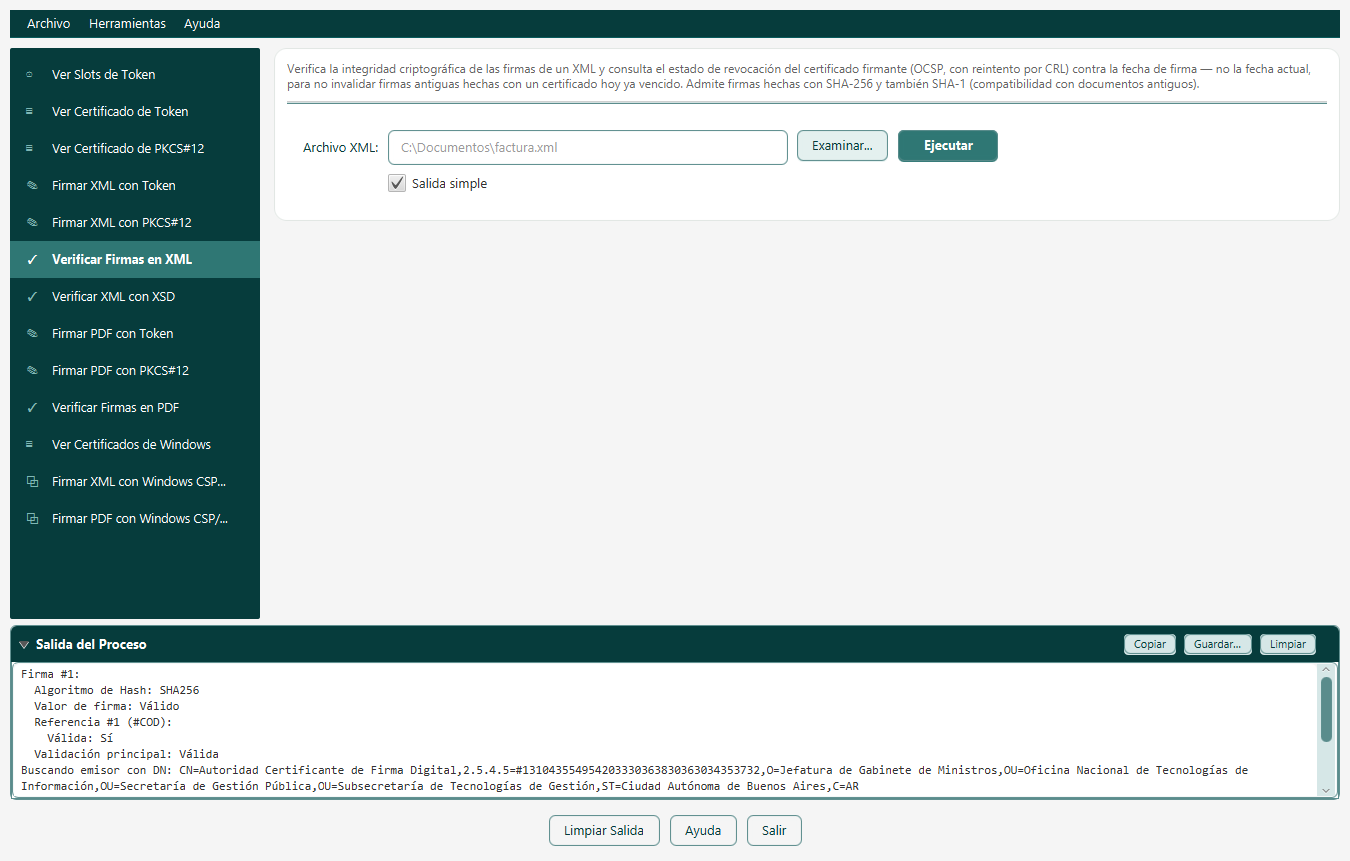
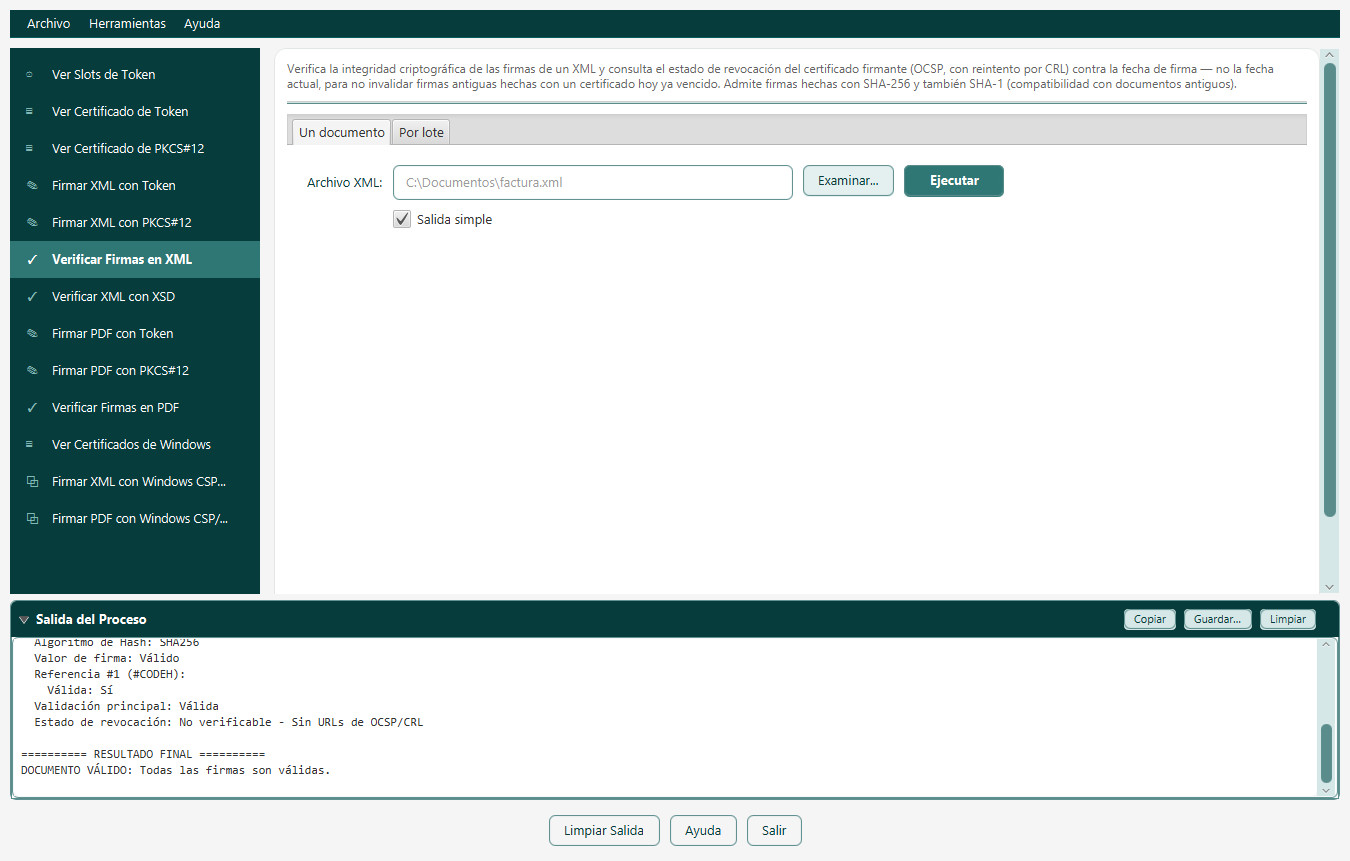
docs(1.6.0): pagina de inicio, guia de usuario y capturas de la interfaz
La pagina de inicio seguia anunciando la 1.5.1 y la guia solo describia el
trabajo por lote con texto, sin enlace en el indice ni imagenes.

- index.html: version 1.6.0 y sus novedades (lotes y actualizacion de
  componentes). Se publica recien cuando la rama llegue a main.
- Guia: fecha, enlace en el indice, aviso en las pantallas con pestanas,
  estados y botones del lote, archivos que genera y problemas frecuentes.
- Capturas tomadas de la aplicacion 1.6.0 con el certificado de prueba. Las
  de firma con token muestran solo el formulario (sin token conectado); las
  de certificado vencido y del almacen de Windows siguen siendo de la 1.5.1.

Changed region(s): [[0.0, 0.0604, 0.9956, 0.9361], [0.2178, 0.8153, 0.3111, 0.8455]]

diff --git a/doc/manual-usuario-sfide-gui.html b/doc/manual-usuario-sfide-gui.html
@@ -246,6 +246,7 @@
             <li><a href="#g11">Ver Certificados de Windows</a></li>
             <li><a href="#g12">Firmar XML con Windows CSP/KSP</a></li>
             <li><a href="#g13">Firmar PDF con Windows CSP/KSP</a></li>
+            <li><a href="#por-lote">Trabajar por lote (carpetas)</a></li>
           </ol>
         </li>
         <li><a href="#s5">Dónde quedan los archivos generados</a></li>
@@ -263,7 +264,7 @@
       <p>Cómo usar la interfaz gráfica de S-FiDE para firmar y verificar documentos XML y PDF, paso a paso, con capturas reales de la propia aplicación. Pensada para quien usa el programa haciendo clic, no para quien integra los módulos por línea de comandos — para eso está el <a href="manual-tecnico-integracion.html">Manual Técnico de Integración</a>.</p>
       <div class="meta">
         <span>Versión del producto: <strong>1.6.0 (en desarrollo, sin publicar)</strong></span>
-        <span>Documento: <strong>08/10/2026</strong></span>
+        <span>Documento: <strong>26/11/2026</strong></span>
       </div>
     </div>
 
@@ -274,7 +275,7 @@
       <p>Además, el menú <strong>Archivo</strong> abre un <strong>visor interno</strong> de PDF y de XML (ver «Abrir un documento para mirarlo»). Esta guía recorre cada una de esas 13 pantallas con capturas reales de la aplicación: qué hace cada una, qué significa cada campo, y qué puede pasar al presionar "Ejecutar" — tanto si todo sale bien como los mensajes más comunes cuando algo falta o está mal.</p>
       <div class="callout note">
         <span class="label">Nota sobre las capturas</span>
-        <p>Las capturas de esta guía son de la versión 1.5.1 y se hicieron con tokens criptográficos reales conectados (uno de ellos con un certificado ya vencido, para mostrar cómo S-FiDE lo informa), con un certificado de prueba en archivo y con el almacén de certificados de Windows. Los formularios quedan con los campos vacíos después de cada ejecución, tal como los verá usted; las contraseñas nunca se muestran. Los mensajes de error y de éxito que se describen en cada sección son los mensajes reales que imprime cada programa: algunos con captura real y el resto tomados textualmente de la documentación técnica del producto.</p>
+        <p>Las capturas de las pantallas que cambiaron en la versión 1.6.0 (firma con token y con archivo PKCS#12, verificación, validación XSD, trabajo por lote, la Guía Rápida, «Acerca de» y las novedades) son de esa versión, hechas con un certificado de prueba en archivo; las dos pantallas de firma con token muestran el formulario, sin un token conectado. Las demás, incluidas las que muestran un certificado vencido, son de la versión 1.5.1 y se hicieron con tokens criptográficos reales y con el almacén de certificados de Windows. El campo del documento queda vacío después de cada ejecución, tal como lo verá usted; las contraseñas nunca se muestran. Los mensajes de error y de éxito que se describen en cada sección son los mensajes reales que imprime cada programa: algunos con captura real y el resto tomados textualmente de la documentación técnica del producto.</p>
       </div>
     </section>
 
@@ -345,6 +346,7 @@
       <span class="chapter-num">04</span>
       <h2>Los módulos, uno por uno</h2>
       <p>Los tres botones que aparecen abajo de cada formulario — <strong>Limpiar Salida</strong>, <strong>Ayuda</strong>, <strong>Salir</strong> — son los mismos en las 13 pantallas y no se repiten en cada sección.</p>
+      <p>Desde la versión 1.6.0, las pantallas 4 a 10 tienen dos pestañas: <strong>Un documento</strong>, que es la que describe cada una de esas secciones, y <strong>Por lote</strong>, para procesar una carpeta entera (ver <a href="#por-lote">Trabajar por lote</a>).</p>
 
       <div class="module" id="g1">
         <div class="module-head"><h3>1. Ver Slots de Token</h3><span class="module-num">TokenSlotsView</span></div>
@@ -413,12 +415,13 @@
         <div class="module-head"><h3>4. Firmar XML con Token</h3><span class="module-num">XMLSignerPKCS11</span></div>
         <p class="desc">Firma digitalmente un documento XML con la clave privada de un token criptográfico, usando SHA-256. Puede firmar el documento completo, o solo un elemento/párrafo específico identificado por su atributo Id= —una posibilidad general, válida para cualquier XML— que además es la que usan los documentos de comercio exterior ALADI/MERCOSUR (Certificados de Origen Digital, Declaraciones Juradas de Origen), cuyas firmas van embebidas sobre elementos puntuales del documento y no sobre el XML completo.</p>
         <figure class="shot">
-          <img src="img/manual-usuario/04_firmar_xml_con_token.png" alt="Pantalla Firmar XML con Token">
+          <img src="img/manual-usuario/04_firmar_xml_con_token.png" alt="Pantalla Firmar XML con Token, con las pestañas Un documento y Por lote">
+          <figcaption>Captura real — formulario de «Un documento», sin un token conectado</figcaption>
         </figure>
         <p>Si el certificado del token está vencido, S-FiDE no firma y lo explica antes de tocar el documento:</p>
         <figure class="shot">
           <img src="img/manual-usuario/15_firmar_xml_certificado_vencido.png" alt="Firmar XML con Token con un certificado vencido: el programa se niega a firmar y explica cuándo venció">
-          <figcaption>Captura real — con un certificado vencido no se genera ningún archivo firmado; lo mismo ocurre con todos los módulos de firma</figcaption>
+          <figcaption>Captura real (versión 1.5.1, anterior a las pestañas) — con un certificado vencido no se genera ningún archivo firmado; lo mismo ocurre con todos los módulos de firma</figcaption>
         </figure>
         <p class="field-label">Campos</p>
         <ul>
@@ -501,7 +504,8 @@
         <div class="module-head"><h3>8. Firmar PDF con Token</h3><span class="module-num">PDFSignerPKCS11</span></div>
         <p class="desc">Firma digitalmente un documento PDF con la clave privada de un token criptográfico, usando SHA-256. La firma puede ser invisible o mostrarse en un recuadro con firmante, fecha y texto personalizado, en el lugar que usted elija sobre el propio documento. Antes de firmar, S-FiDE revisa el documento y las firmas que ya tiene; la última persona que firma puede cerrarlo para que no admita más firmas. Ver "Un documento, varias firmas" más abajo.</p>
         <figure class="shot">
-          <img src="img/manual-usuario/08_firmar_pdf_con_token.png" alt="Pantalla Firmar PDF con Token">
+          <img src="img/manual-usuario/08_firmar_pdf_con_token.png" alt="Pantalla Firmar PDF con Token, con las pestañas Un documento y Por lote">
+          <figcaption>Captura real — formulario de «Un documento», sin un token conectado</figcaption>
         </figure>
         <p class="field-label">Campos</p>
         <ul>
@@ -630,15 +634,38 @@
       <ol>
         <li><strong>Complete sus datos</strong> y elija la <strong>carpeta</strong>. No se incluyen las subcarpetas.</li>
         <li><strong>Al firmar, los archivos que terminan en <code>-signed</code> quedan afuera.</strong> Si lo que quiere es agregar otra firma a documentos ya firmados (por ejemplo, la del Funcionario Habilitado), marque <em>"Incluir solo los archivos que terminan en -signed"</em>. S-FiDE mira el nombre del archivo.</li>
-        <li><strong>Pulse <em>Revisar</em></strong> (opcional): muestra todos los documentos sin firmar nada ni usar su PIN. Los que no se pueden firmar aparecen bloqueados con el motivo; los demás se pueden desmarcar.</li>
+        <li><strong>Pulse <em>Revisar</em></strong> (opcional, solo al firmar): muestra todos los documentos sin firmar nada ni usar su PIN. Los que no se pueden firmar aparecen bloqueados con el motivo; los demás se pueden desmarcar.</li>
         <li><strong>Pulse <em>Firmar</em></strong> o <em>Verificar</em>. La contraseña se usa una sola vez para todo el lote.</li>
         <li><strong>Mire la tabla:</strong> muestra cómo terminó cada documento. Puede ver solo los que tuvieron problemas, reintentar los que fallaron y abrir el informe.</li>
       </ol>
+      <figure class="shot">
+        <img src="img/manual-usuario/22_lote_revisar.png" alt="Revisión de un lote: tres documentos listos para firmar y uno bloqueado porque ya está firmado">
+        <figcaption>Captura real — «Revisar»: tres documentos listos y uno bloqueado, con el motivo</figcaption>
+      </figure>
+      <figure class="shot">
+        <img src="img/manual-usuario/23_lote_resultado.png" alt="Pestaña Por lote de Firmar XML con PKCS#12 después de firmar tres documentos">
+        <figcaption>Captura real — resultado de un lote de firma: resumen, tabla y botones para revisar lo ocurrido</figcaption>
+      </figure>
       <div class="callout note">
         <span class="label">Un lote hace una sola cosa</span>
         <p>En XML no se pueden mezclar Certificados de Origen con Declaraciones Juradas: si la carpeta los mezcla, no se firma ninguno. En PDF todos reciben la misma firma en el mismo lugar y, si marca cerrar el documento, se cierran todos: S-FiDE le pide confirmación porque no se puede deshacer. Un archivo ya firmado nunca se reemplaza.</p>
       </div>
-      <p>Si marca <em>"Guardar un registro por documento"</em>, junto a cada uno queda un archivo <code>.log</code> con el detalle. La lista y el informe de cada lote se guardan en la carpeta <code>S-FiDE/lotes</code> de su carpeta personal.</p>
+      <figure class="shot">
+        <img src="img/manual-usuario/24_lote_confirmar_cierre.png" alt="Confirmación antes de cerrar los documentos de un lote">
+        <figcaption>Captura real — cerrar los documentos de un lote no se puede deshacer, por eso se pide confirmación</figcaption>
+      </figure>
+      <p><strong>Cómo leer la tabla.</strong> Cada documento termina en uno de estos estados: <em>Firmado</em>, <em>Firmado con avisos</em>, <em>Válido</em>, <em>Válido con observaciones</em>, <em>No válido</em>, <em>Sin firmas</em>, <em>Omitido</em> (por ejemplo, porque su archivo firmado ya existía), <em>Error</em> o <em>No procesado</em> (el lote se detuvo antes de llegar a él). La columna <em>Detalle</em> explica el motivo.</p>
+      <figure class="shot">
+        <img src="img/manual-usuario/25_lote_verificar.png" alt="Pestaña Por lote de Verificar Firmas en XML con el resultado de siete documentos">
+        <figcaption>Captura real — verificación de una carpeta: documentos válidos, válidos con observaciones y sin firmas</figcaption>
+      </figure>
+      <ul>
+        <li><strong>Ver detalle:</strong> al verificar o validar, comprueba de nuevo el documento elegido y muestra todo en la Salida del Proceso. Al firmar, abre su registro, si marcó guardarlo.</li>
+        <li><strong>Cancelar:</strong> detiene el lote. Mientras está en curso no se puede cambiar de pantalla.</li>
+        <li><strong>Salida del Proceso:</strong> durante un lote muestra los avisos generales (por ejemplo, sobre la revocación del certificado) y los problemas, no el detalle completo de cada documento.</li>
+        <li><strong>Registro por documento:</strong> si marca <em>"Guardar un registro por documento"</em>, junto a cada uno queda un archivo <code>.log</code> con el detalle de su proceso y su resultado. Los avisos generales del lote no se copian en esos archivos. Si el archivo ya existe, el nuevo registro se agrega al final.</li>
+      </ul>
+      <p>La lista y el informe de cada lote se guardan en la carpeta <code>S-FiDE/lotes</code> de su carpeta personal.</p>
     </section>
 
     <section class="chapter" id="s5">
@@ -649,9 +676,11 @@
         <tr><td>Firmadores de XML (3)</td><td><code>&lt;nombre&gt;-signed.xml</code></td><td>En la misma carpeta que el XML original</td></tr>
         <tr><td>Firmadores de PDF (3)</td><td><code>&lt;nombre&gt;-signed.pdf</code></td><td>En la misma carpeta que el PDF original</td></tr>
         <tr><td>Extractores de certificado (2)</td><td><code>&lt;nombre-del-certificado&gt;.pem</code></td><td><strong>En su carpeta personal de S-FiDE</strong> (<code>C:\Users\su-usuario\S-FiDE</code>) — no junto al token ni al archivo de origen, y desde la 1.4.0 ya no en la carpeta de instalación</td></tr>
+        <tr><td>Registro por documento de un lote (opcional)</td><td><code>&lt;documento&gt;.log</code>, por ejemplo <code>contrato.pdf.log</code></td><td>Junto a cada documento del lote</td></tr>
+        <tr><td>Lista e informe de cada lote</td><td>Un archivo <code>.txt</code> y un informe <code>.csv</code></td><td>En la carpeta <code>S-FiDE/lotes</code> de su carpeta personal</td></tr>
       </table>
-      <p>Los módulos de "ver"/"verificar" no generan ningún archivo: todo su resultado se muestra en el panel "Salida del Proceso".</p>
-      <p>En las seis pestañas de firma, junto al campo del documento de entrada aparece un botón <strong>"Abrir documento generado"</strong>, deshabilitado hasta que la firma termina con éxito y el archivo <code>-signed</code> correspondiente realmente existe en disco. Al presionarlo, abre ese documento en el navegador web predeterminado del sistema. Si edita el campo del documento de entrada después de firmar, el botón se deshabilita — ya no corresponde necesariamente a lo que ve en pantalla.</p>
+      <p>De a un documento, los módulos de "ver"/"verificar" no generan ningún archivo (salvo los extractores, que guardan el <code>.pem</code>): todo su resultado se muestra en el panel "Salida del Proceso".</p>
+      <p>En las seis pantallas de firma, dentro de la pestaña de un documento (donde la hay), junto al campo del documento de entrada aparece un botón <strong>"Abrir documento generado"</strong>, deshabilitado hasta que la firma termina con éxito y el archivo <code>-signed</code> correspondiente realmente existe en disco. Al presionarlo, abre ese documento en el navegador web predeterminado del sistema. Si edita el campo del documento de entrada después de firmar, el botón se deshabilita — ya no corresponde necesariamente a lo que ve en pantalla.</p>
     </section>
 
     <section class="chapter" id="s6">
@@ -726,6 +755,10 @@
         <tr><td>S-FiDE dice que el certificado venció, o que todavía no es válido, y no firma</td><td>Es lo correcto: un documento firmado con un certificado vencido no sería aceptado. Corra "Ver Slots de Token", "Ver Certificado de Token o de PKCS#12" o "Ver Certificados de Windows": la línea <em>Estado</em> de cada certificado dice si está vigente, vencido o aún no vigente. Si el vencido es el suyo, renuévelo ante su autoridad certificante; si su token o archivo tiene además uno renovado, S-FiDE usa solo el vigente. Si el certificado figura como "todavía no válido" y usted sabe que ya corresponde, revise la fecha y hora de la computadora.</td></tr>
         <tr><td>Aparece una <em>ADVERTENCIA</em> sobre el reloj de la computadora</td><td>S-FiDE compara el reloj con la hora real de Internet (si hay conexión) y avisa si la diferencia supera los 5 minutos, porque de ese reloj dependen la vigencia del certificado y la fecha de la firma. No impide firmar, pero conviene corregir la fecha y hora de Windows antes de seguir.</td></tr>
         <tr><td>Aparece una ADVERTENCIA sobre la autoridad certificante o la clave del certificado</td><td>Es informativa y no impide firmar: el certificado de la autoridad que emitió el suyo está vencido, o su clave es más débil de lo recomendable. Consulte con su autoridad certificante.</td></tr>
+        <tr><td>En «Por lote» faltan documentos de la carpeta</td><td>No se incluyen las subcarpetas. Al firmar quedan afuera los archivos que terminan en <code>-signed</code>; para agregarles otra firma, marque <em>"Incluir solo los archivos que terminan en -signed"</em>.</td></tr>
+        <tr><td>El lote no firmó ningún documento porque están mezclados</td><td>La carpeta tiene documentos que no corresponden al elemento indicado (por ejemplo, Certificados de Origen junto con Declaraciones Juradas). Sepárelos en carpetas distintas y vuelva a ejecutar.</td></tr>
+        <tr><td>Un documento aparece como «Omitido» al firmar por lote</td><td>Ya existe su archivo <code>-signed</code>: por lote nunca se reemplaza. Muévalo o cambie su nombre si de verdad quiere firmarlo de nuevo.</td></tr>
+        <tr><td>El lote se detuvo por la contraseña</td><td>S-FiDE no vuelve a probarla, para no gastar intentos del token. Corríjala y pulse de nuevo <em>Firmar</em>; los documentos que quedaron como «No procesado» siguen sin firmar.</td></tr>
         <tr><td>No encuentro el archivo firmado</td><td>Queda en la misma carpeta que el archivo original (ver la tabla de la sección anterior) — no en la carpeta de instalación de S-FiDE.</td></tr>
         <tr><td>No encuentro el .pem que extraje</td><td>Queda en su carpeta personal de S-FiDE (<code>C:\Users\su-usuario\S-FiDE</code>), no junto al token/archivo de origen. Use el botón "Abrir carpeta del .pem" de las pestañas "Ver Certificado".</td></tr>
         <tr><td>S-FiDE dice que el documento "está cerrado" y no me deja firmar</td><td>Otra persona ya lo cerró con su firma final, o lo bloqueó con Acrobat Reader ("Bloquear documento después de firmar"): ya no admite más firmas. Pídale a esa persona una versión que no esté cerrada.</td></tr>

diff --git a/doc/index.html b/doc/index.html
@@ -132,7 +132,7 @@
 </head>
 <body>
 <main>
-  <span class="tag">Software libre · GPLv2 o posterior · versión 1.5.1</span>
+  <span class="tag">Software libre · GPLv2 o posterior · versión 1.6.0</span>
   <h1>S-FiDE<br>Sistema de Firma Digital Extendido</h1>
   <p class="lead">
     Suite Java de código abierto, de Grupo Sauken S.A., para firmar y verificar
@@ -155,10 +155,12 @@
     y verificación contra el esquema oficial de ALADI.
   </p>
   <p class="lead" style="margin-top: 1rem;">
-    <strong>Novedades de la versión 1.5.1:</strong> S-FiDE <strong>ya no firma con un
-    certificado vencido</strong> (ni con uno que no sirve para firmar), avisa si el
-    <strong>reloj de la computadora</strong> está desfasado, e indica la vigencia de cada
-    certificado en todas las pantallas que los muestran. Mantiene lo de la 1.5.0: firma de PDF
+    <strong>Novedades de la versión 1.6.0:</strong> <strong>operaciones por lotes</strong>.
+    Se puede firmar (con token o archivo PKCS#12), verificar y validar contra XSD una
+    <strong>carpeta entera de documentos</strong>, con un solo acceso al certificado, desde la
+    interfaz gráfica o por línea de comandos, con un informe del resultado de cada documento.
+    Actualiza además los componentes de firma y verificación con las correcciones de seguridad
+    de sus autores. Mantiene lo anterior: S-FiDE no firma con certificados vencidos, firma de PDF
     en cadena entre varias personas, visor interno de PDF y de XML, y versión para macOS.
   </p>
 
